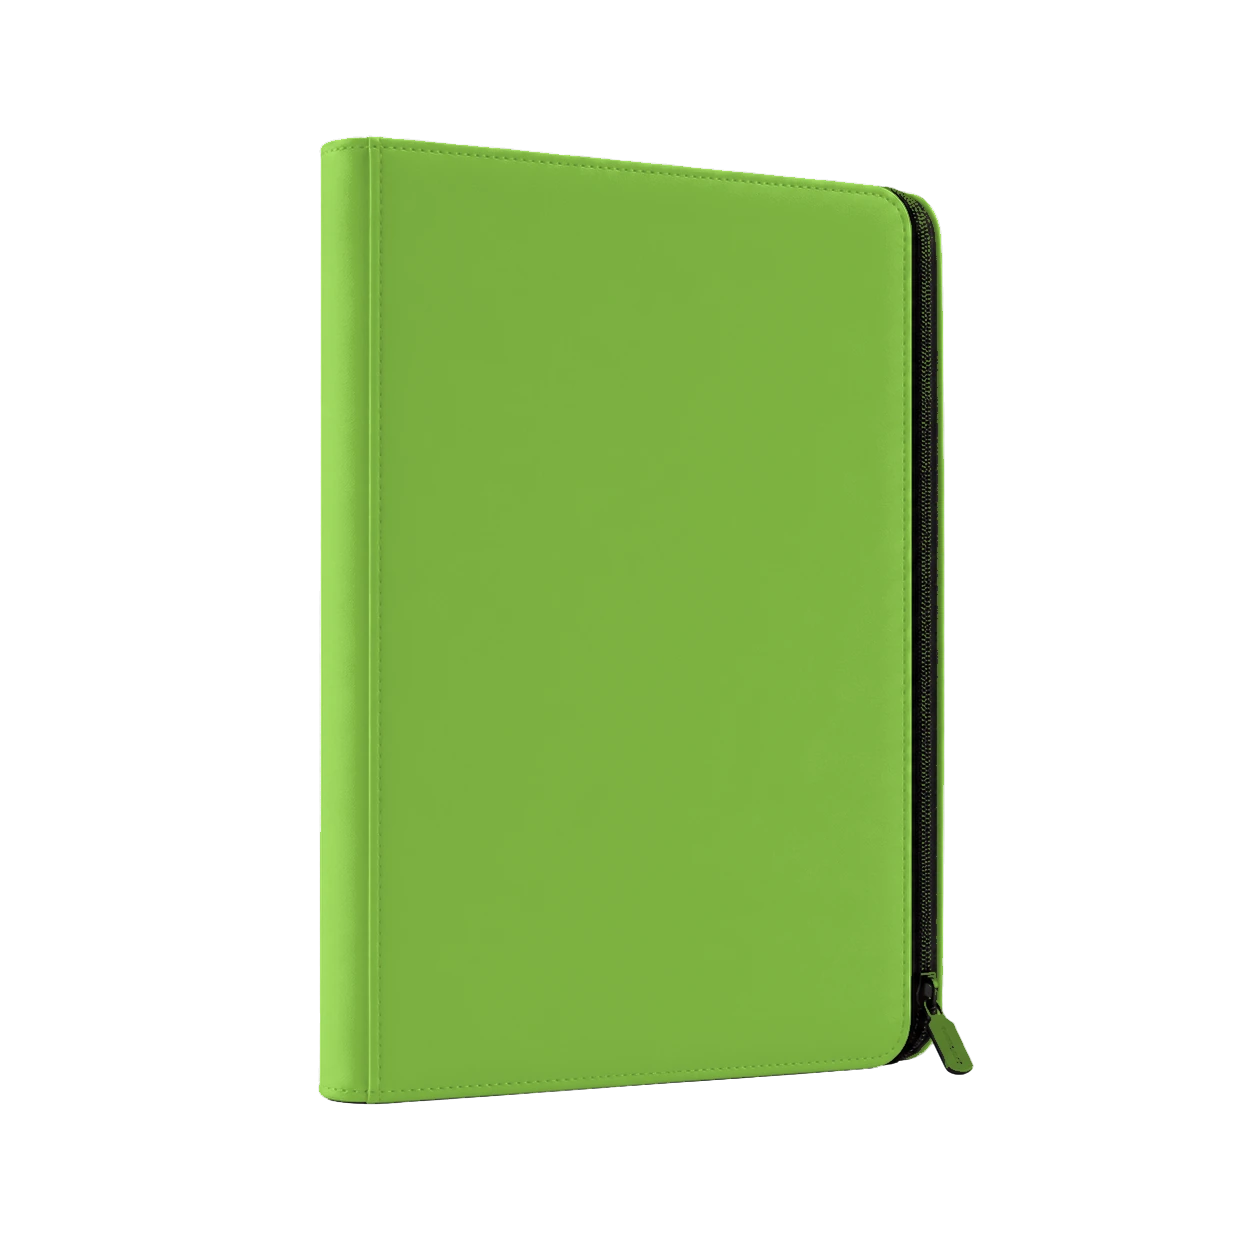
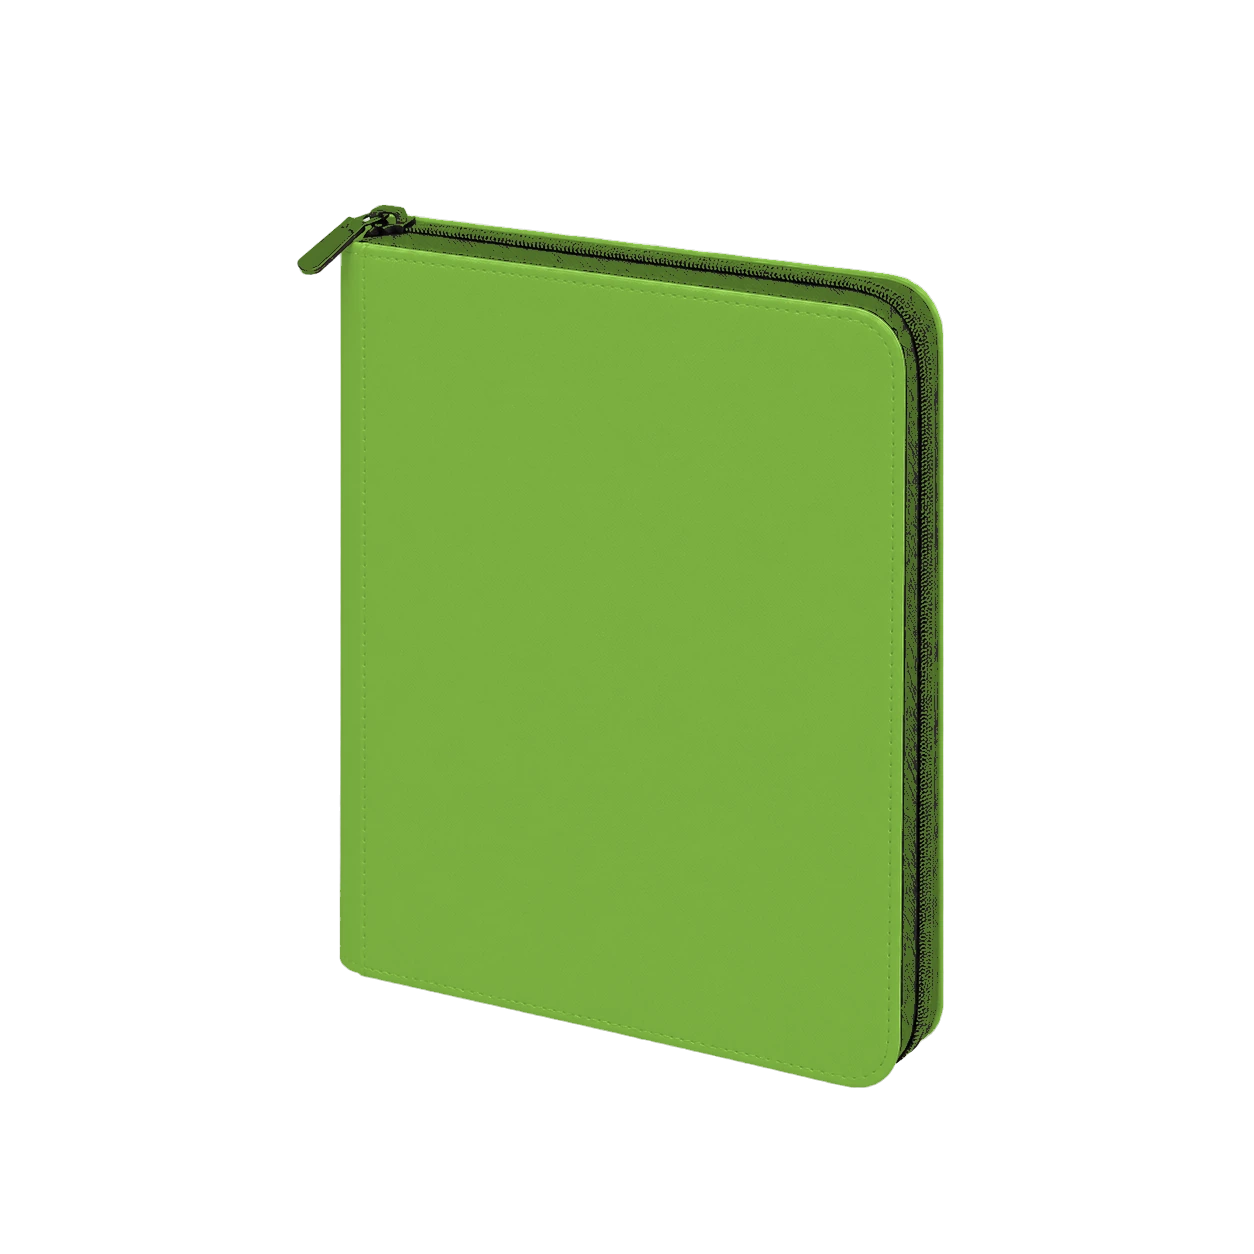
fix(binders): align four-pocket artwork

Changed region(s): [[0.2177, 0.0933, 0.7775, 0.9019]]

diff --git a/src/data/catalog.ts b/src/data/catalog.ts
@@ -472,8 +472,8 @@ const rawCatalog = [
       {
         id: "binder-4-main",
         type: "image",
-        src: "/products/binders/4-pocket/black.webp",
-        alt: "Black four-pocket zippered Toploader binder",
+        src: "/products/binders/4-pocket-cutout.png",
+        alt: "Lineup of colorful four-pocket zippered Toploader binders",
         width: 1254,
         height: 1254
       }
@@ -540,8 +540,8 @@ const rawCatalog = [
       {
         id: "binder-9-main",
         type: "image",
-        src: "/products/binders/9-pocket/black.webp",
-        alt: "Black nine-pocket zippered Toploader binder",
+        src: "/products/binders/9-pocket-cutout.png",
+        alt: "Stack of colorful nine-pocket zippered Toploader binders",
         width: 1254,
         height: 1254
       }

diff --git a/src/lib/__tests__/catalog.test.ts b/src/lib/__tests__/catalog.test.ts
@@ -80,6 +80,12 @@ describe("canonical catalog", () => {
       "Purple",
       "Yellow"
     ]);
+    expect(fourPocket && getPrimaryImage(fourPocket).src).toBe(
+      "/products/binders/4-pocket-cutout.png"
+    );
+    expect(ninePocket && getPrimaryImage(ninePocket).src).toBe(
+      "/products/binders/9-pocket-cutout.png"
+    );
 
     for (const variant of [...(fourPocket?.variants ?? []), ...(ninePocket?.variants ?? [])]) {
       expect(variant.active).toBe(true);
